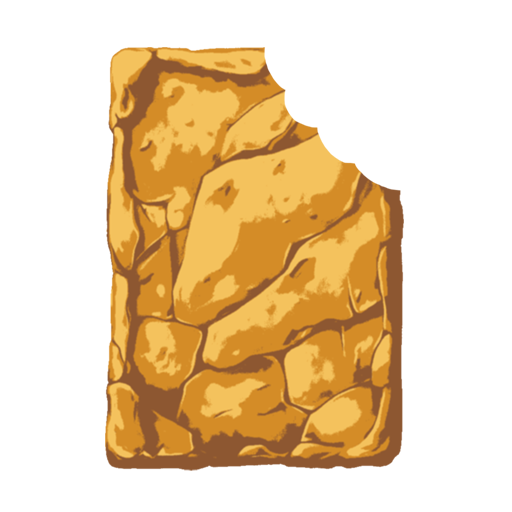
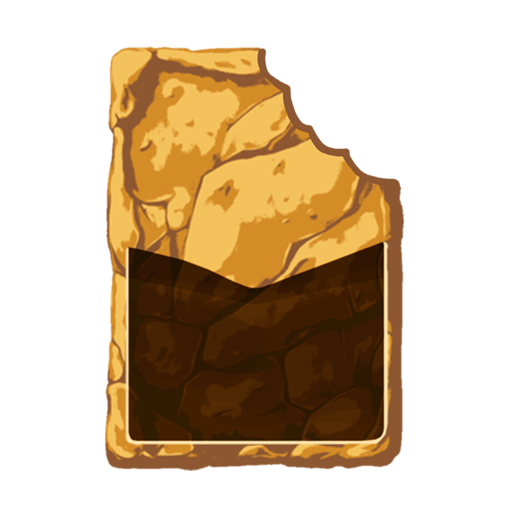
assets

diff --git a/src/main/java/cards/cookie/CardCookie.java b/src/main/java/cards/cookie/CardCookie.java
@@ -22,7 +22,7 @@ import java.util.List;
 
 public abstract class CardCookie extends ReliquaryCard implements CustomSavable<Integer> {
     static String[] DESCRIPTIONS = CardCrawlGame.languagePack.getRelicStrings(RelicCookieJar.ID).DESCRIPTIONS;
-    static TextureAtlas.AtlasRegion[] SILHOUETTES_ATTACK;
+    static TextureAtlas.AtlasRegion[] SILHOUETTES_ATTACK, SILHOUETTES_POWER, SILHOUETTES_SKILL;
     int displayBites;
 
     public CardCookie(String id,
@@ -39,8 +39,17 @@ public abstract class CardCookie extends ReliquaryCard implements CustomSavable<
                     TextureLoader.asAtlasRegion("reliquaryAssets/images/cardui/cookie/silhouette_attack_bite.png"),
                     TextureLoader.asAtlasRegion("reliquaryAssets/images/cardui/cookie/silhouette_attack_bite2.png"),
             };
+            SILHOUETTES_POWER = new TextureAtlas.AtlasRegion[] {
+                    TextureLoader.asAtlasRegion("reliquaryAssets/images/cardui/cookie/silhouette_power.png"),
+                    TextureLoader.asAtlasRegion("reliquaryAssets/images/cardui/cookie/silhouette_power_bite.png"),
+                    TextureLoader.asAtlasRegion("reliquaryAssets/images/cardui/cookie/silhouette_power_bite2.png"),
+            };
+            SILHOUETTES_SKILL = new TextureAtlas.AtlasRegion[] {
+                    TextureLoader.asAtlasRegion("reliquaryAssets/images/cardui/cookie/silhouette_skill.png"),
+                    TextureLoader.asAtlasRegion("reliquaryAssets/images/cardui/cookie/silhouette_skill_bite.png"),
+                    TextureLoader.asAtlasRegion("reliquaryAssets/images/cardui/cookie/silhouette_skill_bite2.png"),
+            };
         }
-        displayBites = -1;
     }
 
     @Override
@@ -61,14 +70,27 @@ public abstract class CardCookie extends ReliquaryCard implements CustomSavable<
         int bites = CookieBiteField.bites.get(this);
         if (bites != displayBites) {
             displayBites = bites;
-            setBackgroundTexture(CookieStatics.CARD_BACKS_ATTACK_SMALL[displayBites], CookieStatics.CARD_BACKS_ATTACK_LARGE[displayBites]);
+            String[] smallBacks = CookieStatics.CARD_BACKS_SKILL_SMALL, largeBacks = CookieStatics.CARD_BACKS_SKILL_LARGE;
+            if (type == CardType.ATTACK) {
+                smallBacks = CookieStatics.CARD_BACKS_ATTACK_SMALL;
+                largeBacks = CookieStatics.CARD_BACKS_ATTACK_LARGE;
+            } else if (type == CardType.POWER) {
+                smallBacks = CookieStatics.CARD_BACKS_POWER_SMALL;
+                largeBacks = CookieStatics.CARD_BACKS_POWER_LARGE;
+            }
+            setBackgroundTexture(smallBacks[displayBites], largeBacks[displayBites]);
         }
         super.update();
     }
 
     @Override
     public TextureAtlas.AtlasRegion getCardBgAtlas() {
-        return SILHOUETTES_ATTACK[displayBites];
+        if (type == CardType.ATTACK) {
+            return SILHOUETTES_ATTACK[displayBites];
+        } else if (type == CardType.POWER) {
+            return SILHOUETTES_POWER[displayBites];
+        }
+        return SILHOUETTES_SKILL[displayBites];
     }
 
     @Override
@@ -86,12 +108,18 @@ public abstract class CardCookie extends ReliquaryCard implements CustomSavable<
 
     @Override
     public void onRemoveFromMasterDeck() {
-        AbstractDungeon.player.relics.stream().filter(r -> r instanceof RelicCookieJar).map(r -> (RelicCookieJar)r).forEach(r -> r.onPurgeCookie());
+        RelicCookieJar[] cookieJars = AbstractDungeon.player.relics.stream().filter(r -> r instanceof RelicCookieJar).map(r -> (RelicCookieJar)r).toArray(RelicCookieJar[]::new);
+        for (RelicCookieJar cookieJar : cookieJars) {
+            cookieJar.onPurgeCookie(this);
+        }
     }
     @Override
     public void upgrade() {
         if (!this.upgraded) {
-            AbstractDungeon.player.relics.stream().filter(r -> r instanceof RelicCookieJar).map(r -> (RelicCookieJar)r).forEach(r -> r.onUpgradeCookie());
+            RelicCookieJar[] cookieJars = AbstractDungeon.player.relics.stream().filter(r -> r instanceof RelicCookieJar).map(r -> (RelicCookieJar)r).toArray(RelicCookieJar[]::new);
+            for (RelicCookieJar cookieJar : cookieJars) {
+                cookieJar.onUpgradeCookie(this);
+            }
             upgradeName();
         }
         setBites(0);

diff --git a/src/main/java/relics/RelicCookieJar.java b/src/main/java/relics/RelicCookieJar.java
@@ -1,30 +1,18 @@
 package relics;
 
 import basemod.abstracts.CustomRelic;
-import cards.colorless.CardBlastOff;
 import cards.cookie.CardCookie;
 import cards.cookie.CardCookieTest;
 import com.badlogic.gdx.graphics.Texture;
 import com.megacrit.cardcrawl.actions.common.MakeTempCardInHandAction;
-import com.megacrit.cardcrawl.actions.common.RelicAboveCreatureAction;
-import com.megacrit.cardcrawl.cards.AbstractCard;
 import com.megacrit.cardcrawl.core.CardCrawlGame;
 import com.megacrit.cardcrawl.core.Settings;
 import com.megacrit.cardcrawl.dungeons.AbstractDungeon;
 import com.megacrit.cardcrawl.helpers.PowerTip;
-import com.megacrit.cardcrawl.monsters.AbstractMonster;
 import com.megacrit.cardcrawl.relics.AbstractRelic;
 import com.megacrit.cardcrawl.rooms.AbstractRoom;
 import com.megacrit.cardcrawl.vfx.cardManip.ShowCardAndObtainEffect;
-import util.ReliquaryLogger;
 import util.TextureLoader;
-
-import java.util.Collections;
-import java.util.List;
-import java.util.Random;
-import java.util.stream.Collectors;
-
-import static relics.RelicSculptingSteel.isAppropriateRarity;
 
 public class RelicCookieJar extends CustomRelic {
     public static final String ID = "reliquary:CookieJar";
@@ -37,16 +25,16 @@ public class RelicCookieJar extends CustomRelic {
 
     @Override
     public void onEquip() {
-        getRandomCookie();
+        getRandomCookie(null);
     }
-    public void onPurgeCookie() {
-        getRandomCookie();
+    public void onPurgeCookie(CardCookie cookie) {
+        getRandomCookie(cookie);
     }
-    public void onUpgradeCookie() {
-        getRandomCookie();
+    public void onUpgradeCookie(CardCookie cookie) {
+        getRandomCookie(cookie);
     }
 
-    void getRandomCookie() {
+    void getRandomCookie(CardCookie except) {
         CardCookie cookie = new CardCookieTest();
         AbstractDungeon.effectList.add(new ShowCardAndObtainEffect(cookie, Settings.WIDTH / 2.0F, Settings.HEIGHT / 2.0F));
         boolean inCombat = CardCrawlGame.isInARun() && AbstractDungeon.currMapNode != null && AbstractDungeon.getCurrRoom() != null && AbstractDungeon.getCurrRoom().phase == AbstractRoom.RoomPhase.COMBAT;

diff --git a/src/main/java/cards/cookie/CookieStatics.java b/src/main/java/cards/cookie/CookieStatics.java
@@ -27,4 +27,24 @@ public class CookieStatics {
             "reliquaryAssets/images/cardui/cookie/attack512_bite.png",
             "reliquaryAssets/images/cardui/cookie/attack512_bite2.png",
     };
+    public static final String[] CARD_BACKS_POWER_LARGE = {
+            "reliquaryAssets/images/cardui/cookie/power1024.png",
+            "reliquaryAssets/images/cardui/cookie/power1024_bite.png",
+            "reliquaryAssets/images/cardui/cookie/power1024_bite2.png",
+    };
+    public static final String[] CARD_BACKS_POWER_SMALL = {
+            "reliquaryAssets/images/cardui/cookie/power512.png",
+            "reliquaryAssets/images/cardui/cookie/power512_bite.png",
+            "reliquaryAssets/images/cardui/cookie/power512_bite2.png",
+    };
+    public static final String[] CARD_BACKS_SKILL_LARGE = {
+            "reliquaryAssets/images/cardui/cookie/skill1024.png",
+            "reliquaryAssets/images/cardui/cookie/skill1024_bite.png",
+            "reliquaryAssets/images/cardui/cookie/skill1024_bite2.png",
+    };
+    public static final String[] CARD_BACKS_SKILL_SMALL = {
+            "reliquaryAssets/images/cardui/cookie/skill512.png",
+            "reliquaryAssets/images/cardui/cookie/skill512_bite.png",
+            "reliquaryAssets/images/cardui/cookie/skill512_bite2.png",
+    };
 }

diff --git a/src/main/java/Reliquary.java b/src/main/java/Reliquary.java
@@ -40,9 +40,9 @@ public class Reliquary implements AddAudioSubscriber, EditCardsSubscriber, EditK
         BaseMod.addColor(
                 CookieStatics.RELIQUARY_COOKIE,
                 CookieStatics.COLOR,
-                CookieStatics.CARD_BACKS_ATTACK_SMALL[0], CookieStatics.CARD_BACKS_ATTACK_SMALL[0], CookieStatics.CARD_BACKS_ATTACK_SMALL[0],
+                CookieStatics.CARD_BACKS_ATTACK_SMALL[0], CookieStatics.CARD_BACKS_SKILL_SMALL[0], CookieStatics.CARD_BACKS_POWER_SMALL[0],
                 CookieStatics.CARD_BACK_ENERGY_SMALL,
-                CookieStatics.CARD_BACKS_ATTACK_LARGE[0], CookieStatics.CARD_BACKS_ATTACK_LARGE[0], CookieStatics.CARD_BACKS_ATTACK_LARGE[0],
+                CookieStatics.CARD_BACKS_ATTACK_LARGE[0], CookieStatics.CARD_BACKS_SKILL_LARGE[0], CookieStatics.CARD_BACKS_POWER_LARGE[0],
                 CookieStatics.CARD_BACK_ENERGY_LARGE, CookieStatics.CARD_BACK_ENERGY_TEXT
         );
         try {
